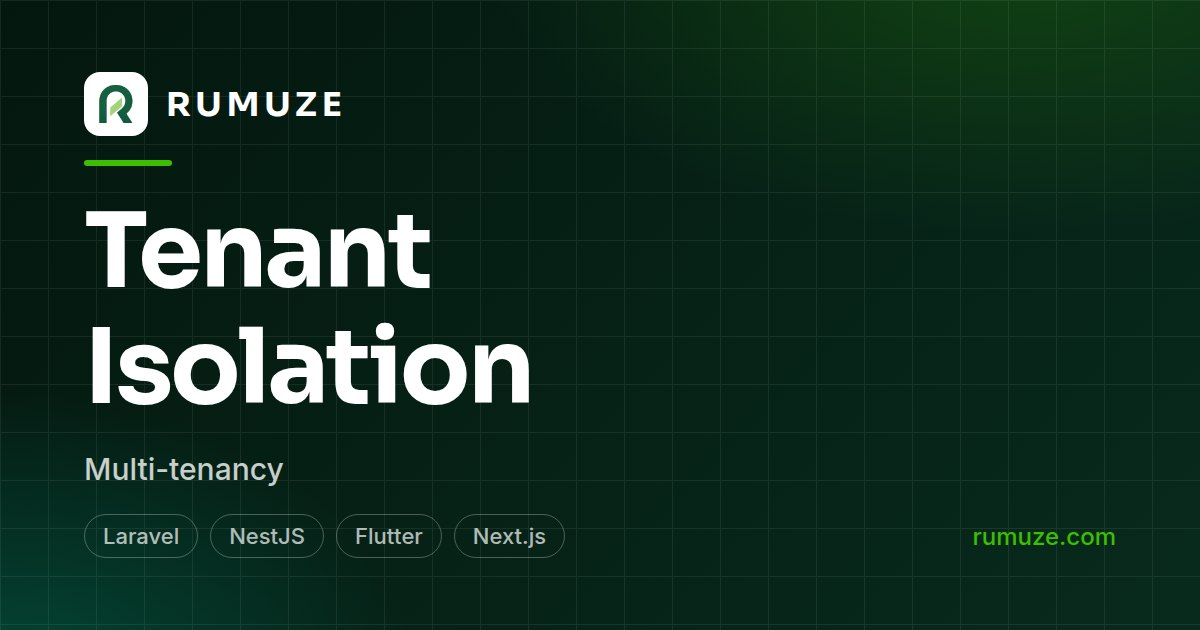
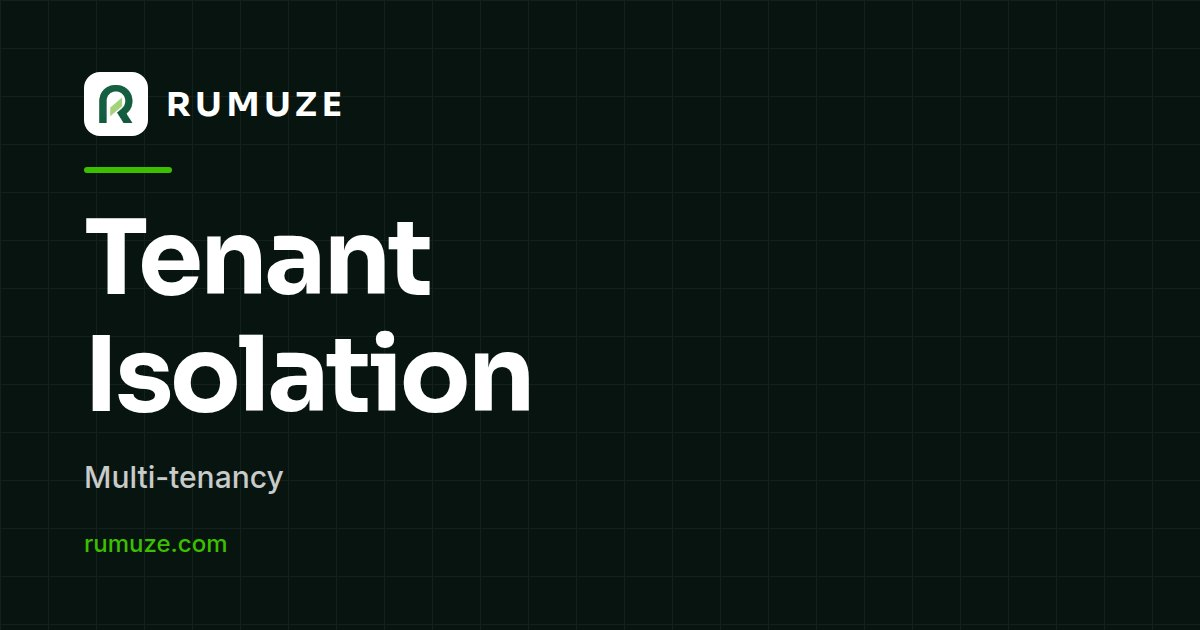
Add three digital marketing articles (EN/AR) with covers (#31)
AEO and GEO basics, Arabic SEO is not translated SEO, and lead tracking before
ad spend. Each 'on our own site' section describes what this site does (CR-031);
general advice only, no results or numbers. Blog covers no longer carry the
technology chips of the social image.

Claude-Session: https://claude.ai/code/session_01WjwZtWXH9kuV8qcTcDmFsZ

diff --git a/src/data/blogPosts.js b/src/data/blogPosts.js
@@ -513,6 +513,183 @@ export const blogPosts = [
                 <p>يتبع Rveta Connector، وهو ما زال قيد التطوير، هذا النهج: سبع حالات متمايزة للرمز والجهاز، وتدوير يخزّن الرمز الجديد قبل التحديث، ومسح محلي لا يمس الخادم، وبيانات اعتماد منفصلة للممثل والجهاز، واستعلام في المقدمة كل 30 ثانية ينفّذ ping وتحديث الحالة فقط. وليس له تشغيل أصلي للبوابة بعد، وصفحاته تقول ذلك.</p>
             `
         }
+    },
+    {
+        id: 'answer-engine-optimization-basics',
+        slug: 'answer-engine-optimization-basics',
+        date: '2026-10-04',
+        author: 'Mohamed Ashraf',
+        category: 'marketing',
+        readTime: 6,
+        image: '/assets/images/blog/answer-engine-optimization-basics.jpg',
+        en: {
+            title: 'Answer Engines: What AEO and GEO Actually Change',
+            excerpt: 'Answer engines read your site and summarise it for someone else. Most of AEO and GEO is making that reading easy and accurate.',
+            content: `
+                <h2>The reader is no longer only a person</h2>
+                <p>Search engines list pages. Answer engines read pages and write an answer, often without the visitor ever opening your site. Whether your company is described correctly in that answer depends on how readable and consistent your site is to a machine. That is the whole subject of answer-engine optimisation (AEO) and generative-engine optimisation (GEO).</p>
+
+                <h2>Start with pages a crawler can read</h2>
+                <p>If the content only exists after JavaScript runs, many crawlers see an empty page. Render the page's real content into the HTML that is served, so the first response already contains the headings, the text, and the links.</p>
+
+                <h2>Say who you are in one consistent place</h2>
+                <p>Answer engines combine many sources. If your name, location, services and contact details differ between your site, your profiles and your listings, the summary will be a blend of them. Pick one wording and use it everywhere, starting with a clear description of what the company does on the home page.</p>
+
+                <h2>Structured data must match the visible page</h2>
+                <p>JSON-LD helps a machine read a page, but only when it describes what a visitor can also see. Questions and answers in structured data should be the same ones printed on the page. Data that claims more than the page does is a reason to be ignored.</p>
+
+                <h2>Write answers, not slogans</h2>
+                <p>A page that opens with the direct answer to a question, then explains it, is easy to quote. Use headings that are real questions or clear statements, keep each section to one idea, and avoid claims you cannot support, because an engine will repeat them.</p>
+
+                <h2>Give crawlers and models a summary</h2>
+                <p>A plain-text file such as llms.txt at the site root can summarise the company and link to the key pages for language models. It is a convenience, not a ranking switch, and it is only useful if it is accurate. Keep robots rules explicit about which crawlers are welcome.</p>
+
+                <h2>On our own site</h2>
+                <p>This site renders every public page to static HTML at build time in both languages, generates its structured data from the same content shown on the page, lists the search and answer-engine crawlers it welcomes in robots.txt, and publishes an llms.txt summary. None of this promises a result: it removes reasons for a machine to misread us.</p>
+            `
+        },
+        ar: {
+            title: 'محركات الإجابة: ما الذي تغيّره AEO وGEO فعلاً',
+            excerpt: 'محركات الإجابة تقرأ موقعك وتلخصه لشخص آخر. وأغلب AEO وGEO أن تجعل هذه القراءة سهلة ودقيقة.',
+            content: `
+                <h2>القارئ لم يعد شخصاً فقط</h2>
+                <p>محركات البحث تسرد الصفحات. أما محركات الإجابة فتقرأ الصفحات وتكتب إجابة، وغالباً دون أن يفتح الزائر موقعك أصلاً. ووصف شركتك في تلك الإجابة بشكل صحيح يعتمد على مدى وضوح موقعك واتساقه للآلة. وهذا هو موضوع تحسين محركات الإجابة (AEO) وتحسين المحركات التوليدية (GEO) كله.</p>
+
+                <h2>ابدأ بصفحات يستطيع الزاحف قراءتها</h2>
+                <p>إن كان المحتوى لا يظهر إلا بعد تشغيل JavaScript فإن زواحف كثيرة ترى صفحة فارغة. اعرض المحتوى الحقيقي للصفحة داخل HTML المُقدَّم، فتحتوي الاستجابة الأولى على العناوين والنص والروابط.</p>
+
+                <h2>قل من أنت في مكان واحد متسق</h2>
+                <p>تجمع محركات الإجابة بين مصادر كثيرة. فإن اختلف اسمك وموقعك وخدماتك وبيانات التواصل بين موقعك وحساباتك وقوائمك، جاء الملخص مزيجاً منها. اختر صياغة واحدة واستخدمها في كل مكان، بدءاً بوصف واضح لما تفعله الشركة في الصفحة الرئيسية.</p>
+
+                <h2>يجب أن تطابق البيانات المنظمة الصفحة المرئية</h2>
+                <p>يساعد JSON-LD الآلة على قراءة الصفحة، لكن فقط حين يصف ما يراه الزائر أيضاً. وينبغي أن تكون الأسئلة والأجوبة في البيانات المنظمة هي نفسها المطبوعة في الصفحة. فالبيانات التي تدّعي أكثر مما تقوله الصفحة سبب لتجاهلها.</p>
+
+                <h2>اكتب إجابات لا شعارات</h2>
+                <p>الصفحة التي تبدأ بالإجابة المباشرة عن سؤال ثم تشرحها سهلة الاقتباس. استخدم عناوين هي أسئلة حقيقية أو عبارات واضحة، واجعل كل قسم لفكرة واحدة، وتجنب ادعاءات لا تستطيع إثباتها لأن المحرك سيكررها.</p>
+
+                <h2>أعطِ الزواحف والنماذج ملخصاً</h2>
+                <p>يمكن لملف نصي مثل llms.txt في جذر الموقع أن يلخص الشركة ويربط بصفحاتها الرئيسية للنماذج اللغوية. وهو تسهيل لا مفتاح ترتيب، ولا يفيد إلا إذا كان دقيقاً. وأبقِ قواعد robots صريحة بشأن الزواحف المرحَّب بها.</p>
+
+                <h2>في موقعنا</h2>
+                <p>يعرض هذا الموقع كل صفحة عامة كـ HTML ثابت وقت البناء باللغتين، ويولّد بياناته المنظمة من المحتوى نفسه المعروض في الصفحة، ويسرد في robots.txt زواحف البحث والإجابة المرحَّب بها، وينشر ملخص llms.txt. لا شيء من هذا يعد بنتيجة: هو يزيل أسباب سوء قراءة الآلة لنا.</p>
+            `
+        }
+    },
+    {
+        id: 'arabic-seo-is-not-translated-seo',
+        slug: 'arabic-seo-is-not-translated-seo',
+        date: '2026-10-04',
+        author: 'Mohamed Ashraf',
+        category: 'marketing',
+        readTime: 5,
+        image: '/assets/images/blog/arabic-seo-is-not-translated-seo.jpg',
+        en: {
+            title: 'Arabic SEO Is Not Translated English SEO',
+            excerpt: 'People search in Arabic differently from English. Treat each language as its own search target, with its own metadata and content.',
+            content: `
+                <h2>Two audiences, two sets of queries</h2>
+                <p>A translated page answers the English query in Arabic words. It does not answer the question an Arabic speaker would type. Arabic has spelling variants, dialect words, and phrasing that differs from English even when the meaning is the same. Search for each language separately, with its own keyword research.</p>
+
+                <h2>Give each language its own address</h2>
+                <p>Put each language on its own URL, for example a /ar path, rather than switching the language with a cookie or a script. Search engines index addresses, so a language that only appears after a click can be invisible.</p>
+
+                <h2>Link the versions with hreflang</h2>
+                <p>Tell search engines that the English and Arabic pages are versions of each other. Each page should list both alternates and point to itself, and the sitemap should carry the same pairs. Without this, the two pages can compete or the wrong one can be shown.</p>
+
+                <h2>Write the metadata in Arabic</h2>
+                <p>Title, description, headings and structured data should be written for the Arabic page, not copied in English. A search result in the wrong language, or a title cut off by a long translation, loses the click.</p>
+
+                <h2>Check right-to-left layout is part of quality</h2>
+                <p>Mirrored layout, correct punctuation, and numbers that read properly are part of how a page is judged by visitors. Slow or broken Arabic pages lose people before the content has a chance.</p>
+
+                <h2>On our own site</h2>
+                <p>Every public page here exists at its own English and Arabic address, links both with hreflang and in the sitemap, and has Arabic titles, descriptions and headings written for it. Arabic uses its own font files, loaded before the first paint, so the page appears quickly.</p>
+            `
+        },
+        ar: {
+            title: 'SEO بالعربية ليس SEO إنجليزياً مترجماً',
+            excerpt: 'يبحث الناس بالعربية بطريقة تختلف عن الإنجليزية. تعامل مع كل لغة كهدف بحث مستقل ببياناتها الوصفية ومحتواها.',
+            content: `
+                <h2>جمهوران وصيغتا استعلام</h2>
+                <p>الصفحة المترجمة تجيب عن الاستعلام الإنجليزي بكلمات عربية، ولا تجيب عن السؤال الذي سيكتبه متحدث العربية. فللعربية تنويعات إملائية وكلمات لهجية وصياغة تختلف عن الإنجليزية حتى مع تطابق المعنى. ابحث لكل لغة على حدة، ولكلٍ منها بحث كلمات مفتاحية خاص.</p>
+
+                <h2>أعطِ كل لغة عنوانها</h2>
+                <p>ضع كل لغة على عنوان URL خاص، مثل مسار /ar، بدل تبديل اللغة بملف تعريف ارتباط أو سكربت. فمحركات البحث تفهرس العناوين، واللغة التي لا تظهر إلا بعد نقرة قد تكون غير مرئية.</p>
+
+                <h2>اربط النسختين بـ hreflang</h2>
+                <p>أخبر محركات البحث أن الصفحتين الإنجليزية والعربية نسختان من بعضهما. ينبغي أن تسرد كل صفحة البديلين وتشير إلى نفسها، وأن تحمل خريطة الموقع الأزواج نفسها. بدون ذلك قد تتنافس الصفحتان أو تظهر الصفحة الخاطئة.</p>
+
+                <h2>اكتب البيانات الوصفية بالعربية</h2>
+                <p>يجب أن يُكتب العنوان والوصف والعناوين الفرعية والبيانات المنظمة للصفحة العربية لا أن تُنسخ بالإنجليزية. فنتيجة بحث بلغة خاطئة أو عنوان مقطوع بسبب ترجمة طويلة يخسر النقرة.</p>
+
+                <h2>التخطيط من اليمين لليسار جزء من الجودة</h2>
+                <p>التخطيط المعكوس وعلامات الترقيم الصحيحة والأرقام المقروءة جزء من حكم الزوار على الصفحة. والصفحات العربية البطيئة أو المكسورة تخسر الناس قبل أن تتاح للمحتوى فرصة.</p>
+
+                <h2>في موقعنا</h2>
+                <p>كل صفحة عامة هنا لها عنوانها الإنجليزي والعربي، وتربطهما hreflang وخريطة الموقع، ولها عناوين وأوصاف عربية مكتوبة لها. وتستخدم العربية ملفات خطوطها الخاصة التي تُحمَّل قبل أول رسم، فتظهر الصفحة بسرعة.</p>
+            `
+        }
+    },
+    {
+        id: 'track-leads-before-ad-spend',
+        slug: 'track-leads-before-ad-spend',
+        date: '2026-10-04',
+        author: 'Mohamed Ashraf',
+        category: 'marketing',
+        readTime: 5,
+        image: '/assets/images/blog/track-leads-before-ad-spend.jpg',
+        en: {
+            title: 'Set Up Lead Tracking Before You Spend on Ads',
+            excerpt: 'Ad reports that count clicks cannot tell you which campaign produced a customer. Decide what counts as a lead and measure it first.',
+            content: `
+                <h2>A click is not a lead</h2>
+                <p>Most ad dashboards report impressions and clicks because those are easy to count. A business cares about enquiries and sales. Until the second kind of number is measured, spending more cannot be judged to have worked or not.</p>
+
+                <h2>Decide what counts as a result</h2>
+                <p>Write down the events that matter: a submitted form, a click on a phone number, a message sent on a chat button, a booked call. Agree on them before the campaign starts, and give each a name that will not change.</p>
+
+                <h2>Capture where the lead came from</h2>
+                <p>Record the source when a lead arrives: the campaign tag in the address, or at minimum the page and referrer. A form that records the source, the type of enquiry and the market lets you compare channels without asking customers to remember.</p>
+
+                <h2>Count the leads that do not arrive through the form</h2>
+                <p>Phone calls and chat messages are often the majority of enquiries for service businesses and are the easiest to miss. Track clicks on call and chat buttons as events, and keep a simple way to log calls that come in directly.</p>
+
+                <h2>Respect consent</h2>
+                <p>Do not record visitors before they agree where agreement is required. Measure what you are allowed to, say what you record, and make declining the same effort as accepting. Reports built on consented data are smaller and trustworthy.</p>
+
+                <h2>Test the tracking before the budget</h2>
+                <p>Submit a test enquiry from a phone, from a desktop, in Arabic and in English, and confirm that each one appears with the right source. A small test costs nothing; a month of untracked spend does.</p>
+
+                <h2>On our own site</h2>
+                <p>Our contact form records the type of enquiry, the market, the systems in use and the source of each request, and visit tracking only starts after a visitor accepts. We use the same approach when we set up measurement for clients.</p>
+            `
+        },
+        ar: {
+            title: 'جهّز تتبع العملاء المحتملين قبل أن تنفق على الإعلانات',
+            excerpt: 'تقارير الإعلانات التي تعدّ النقرات لا تخبرك أي حملة جلبت عميلاً. حدد ما يُعدّ عميلاً محتملاً وقِسه أولاً.',
+            content: `
+                <h2>النقرة ليست عميلاً</h2>
+                <p>تعرض أغلب لوحات الإعلانات مرات الظهور والنقرات لأنها سهلة العد. أما النشاط التجاري فيهمه الاستفسارات والمبيعات. وإلى أن يُقاس النوع الثاني من الأرقام لا يمكن الحكم بأن زيادة الإنفاق نجحت أو لم تنجح.</p>
+
+                <h2>حدد ما يُعدّ نتيجة</h2>
+                <p>اكتب الأحداث المهمة: نموذج مُرسَل، أو نقرة على رقم هاتف، أو رسالة عبر زر محادثة، أو مكالمة محجوزة. اتفق عليها قبل بدء الحملة وأعطِ كلًّا منها اسماً لا يتغير.</p>
+
+                <h2>سجّل مصدر العميل المحتمل</h2>
+                <p>سجّل المصدر عند وصول العميل: وسم الحملة في العنوان، أو على الأقل الصفحة والمُحيل. والنموذج الذي يسجل المصدر ونوع الاستفسار والسوق يتيح لك مقارنة القنوات دون أن تطلب من العملاء تذكّرها.</p>
+
+                <h2>عدّ العملاء الذين لا يصلون عبر النموذج</h2>
+                <p>المكالمات الهاتفية ورسائل المحادثة غالباً أكثر الاستفسارات لدى شركات الخدمات وأسهلها فوتاً. تتبع النقرات على أزرار الاتصال والمحادثة كأحداث، وأبقِ طريقة بسيطة لتسجيل المكالمات الواردة مباشرة.</p>
+
+                <h2>احترم الموافقة</h2>
+                <p>لا تسجّل الزوار قبل أن يوافقوا حيث تكون الموافقة مطلوبة. قِس ما يُسمح لك به، وقل ما تسجله، واجعل الرفض بنفس سهولة القبول. التقارير المبنية على بيانات موافَق عليها أصغر لكنها موثوقة.</p>
+
+                <h2>اختبر التتبع قبل الميزانية</h2>
+                <p>أرسل استفساراً تجريبياً من الهاتف ومن الحاسوب، بالعربية وبالإنجليزية، وتأكد أن كلًّا منها يظهر بالمصدر الصحيح. اختبار صغير لا يكلف شيئاً، أما شهر من الإنفاق غير المتتبَّع فيكلف.</p>
+
+                <h2>في موقعنا</h2>
+                <p>يسجل نموذج التواصل لدينا نوع الاستفسار والسوق والأنظمة المستخدمة ومصدر كل طلب، ولا يبدأ تتبع الزيارات إلا بعد موافقة الزائر. ونستخدم النهج نفسه عند إعداد القياس للعملاء.</p>
+            `
+        }
     }
 ];
 

diff --git a/docs/CLAIMS_REGISTRY.md b/docs/CLAIMS_REGISTRY.md
@@ -146,6 +146,7 @@ The homepage, portfolio page, navigation, intake form, and page metadata were re
 | CR-028 | Blog: Rveta Connector token and device states, rotation, local clear, actor and device credentials, 30-second foreground polling limited to ping and refresh_status. | verified | `connector-app` README (Connector Auth Mapping, Actor Auth Boundary, Command Channel Safety) | confirmed |
 | CR-029 | How-we-work page: intake paths and recorded fields (contact form), modular-monolith default, boundary scans, fixed release order with per-service health checks, handover documents. No timelines, prices or response times. | verified | `conversionContent.js` intents, `services.ts` handover and differentiators, CR-026 and CR-027 sources | confirmed |
 | CR-030 | Rumuze offers digital marketing: SEO, AEO and GEO; paid advertising management on major platforms such as Google and Meta; bilingual content and social media; tracking, CRM and reporting; and idea-to-digital-solution software work. The copy promises no rankings, cost per lead, return on spend, follower growth, or results, and names no clients. | owner-stated | Product owner confirmed the service list on 2026-10-04; the SEO, AEO and GEO practice is also visible on this site (prerender, structured data, llms.txt) | confirmed |
+| CR-031 | Marketing articles: what this site itself does for AEO and GEO (static HTML for every public page in both languages, structured data generated from visible content, crawler rules in robots.txt, llms.txt), for Arabic SEO (own URL per language, hreflang in pages and sitemap, Arabic metadata, Arabic font preload), and for lead tracking (contact form records enquiry type, market, systems and source; visit tracking only after consent). General advice, no results claimed. | verified | `scripts/prerender.js`, `public/robots.txt`, `public/llms.txt`, `public/sitemap.xml`, `scripts/lib/publicRouteManifest.js`, `src/utils/consent.js`, `services.ts` intake description | confirmed |
 
 Do not publish: internal architecture scores, "known risks" lists, environment details, or any client name or figure until it has been approved and evidenced.
 
